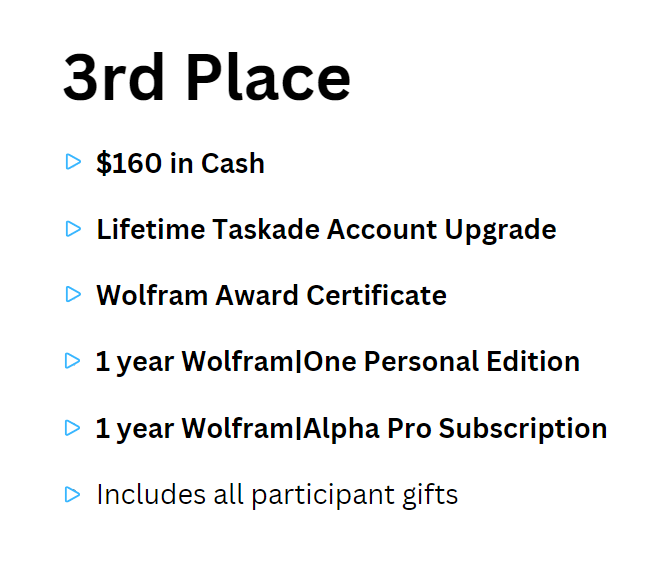
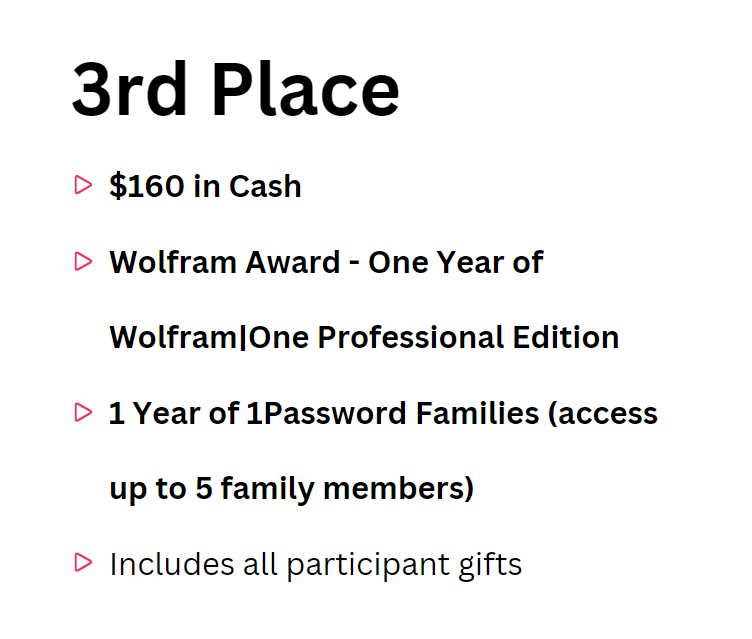
updtaes

diff --git a/src/components/Prizes/index.jsx b/src/components/Prizes/index.jsx
@@ -1,5 +1,5 @@
 
-const prizes = ["1st", "2nd", "3rd", "beginner", "creative", "impact", "qoom", "swag", "raffle"]
+const prizes = ["1st", "2nd", "3rd", "beginner", "creative", "impact", "password", "wolfram", "swag", "raffle"]
 const Pricing = () => {
 
   return (
@@ -15,7 +15,7 @@ const Pricing = () => {
       <div className="flex flex-wrap justify-center">
         {prizes.map((prize) => (
           <div className=" px-2 py-3  ">
-            <img src={`/static/images/prizes/${prize}.png`} alt="Prize" className="rounded-[50px] max-h-[20rem] transition-all hover:scale-[105%]" />
+            <img src={`/static/images/prizes/${prize}.png`} alt="Prize" className="rounded-[50px] max-h-[20rem] max-w-[30rem] transition-all hover:scale-[105%]" />
           </div>
         ))}
 

diff --git a/src/components/Header/menuData.jsx b/src/components/Header/menuData.jsx
@@ -17,24 +17,24 @@ const menuData = [
     path: "/#Sponsorships",
     newTab: false,
   },
-  // {
-  //   id: 69,
-  //   title: "Prizes",
-  //   path: "/#Prizes",
-  //   newTab: false,
-  // },
+  {
+    id: 69,
+    title: "Prizes",
+    path: "/#Prizes",
+    newTab: false,
+  },
   // {
   //   id: 33,
   //   title: "Speakers",
   //   path: "/#Speakers",
   //   newTab: false,
   // },
-  // {
-  //   id: 5,
-  //   title: "Schedule",
-  //   path: "/#Schedule",
-  //   newTab: true,
-  // },
+  {
+    id: 5,
+    title: "Schedule",
+    path: "/#Schedule",
+    newTab: true,
+  },
   {
     id: 3,
     title: "Team",

diff --git a/src/components/Sponsorships/index.jsx b/src/components/Sponsorships/index.jsx
@@ -15,12 +15,12 @@ const brandsData = [
   //   href: "http://about.meta.com/",
   //   image: "/static/images/sponsors/meta.png",
   // },
-  // {
-  //   id: 1,
-  //   name: "",
-  //   href: "https://www.wolfram.com/language/",
-  //   image: "/static/images/sponsors/wplfram.png",
-  // },
+  {
+    id: 1,
+    name: "",
+    href: "https://www.wolfram.com/language/",
+    image: "/static/images/sponsors/wplfram.png",
+  },
   {
     id: 2,
     name: "",

diff --git a/src/App.js b/src/App.js
@@ -71,15 +71,15 @@ export default function App() {
           <Team id="a" />
         </div>
         
-        {/* <div id="Schedule">
+         <div id="Schedule">
         <Schedule />
       </div>
-      <div id="Speakers">
+      {/* <div id="Speakers">
         <Speakers />
-      </div>
+      </div> */}
       <div id="Prizes">
         <Pricing />
-      </div> */}
+      </div> 
 
         <div id="Faq">
           <Faq />
